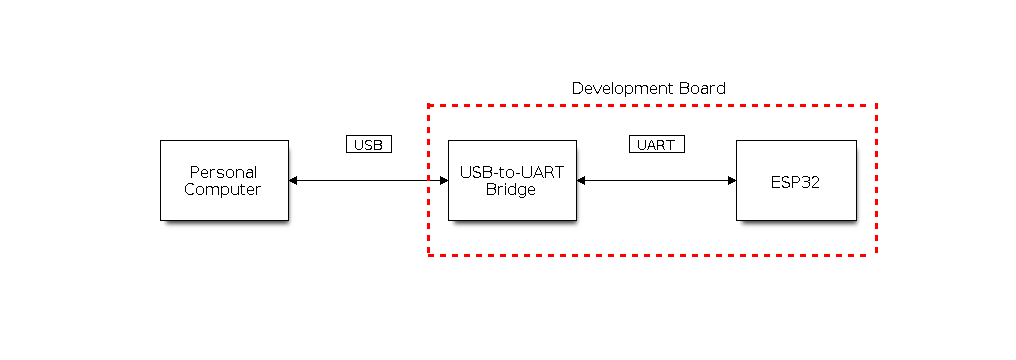
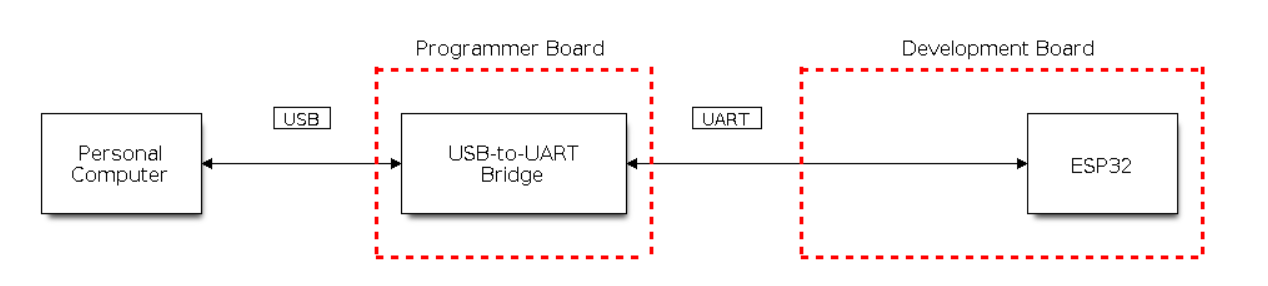
fix tutorial 1

diff --git a/tutorials/tutorial1/ReadMe.md b/tutorials/tutorial1/ReadMe.md
@@ -14,15 +14,21 @@ First things first: Download the Arduino IDE on the official website [Arduino.cc
 
 ## Connect the ESP32 and Install the Driver
 
-To establish a serial connection with your ESP32 device, use a USB-to-UART bridge. This allows your computer to communicate with the ESP32 for programming and debugging. 
+To establish a serial connection with your ESP32 device, use a USB-to-UART bridge. This allows your computer to communicate with the ESP32 for programming and debugging.
 
-![alt text](image-3.png)
+![alt text](image-10.png)
 
 In some cases, the USB-to-UART bridge is provided as an external module. This approach is common for compact development boards or final products where minimizing space and cost is important.
 
-![alt text](image-4.png)
+![alt text](image-3.png)
 
-That is what we will do!
+- The chip enables bidirectional communication (conversion):
+    - from the ESP, it converts UART to USB for the PC.
+    - from the PC, it converts USB to UART for the ESP.
+- So what is the purpose of the driver?
+    - it allows the operating system to recognize this chip as a virtual serial port (`COM`).
+
+That is what we will do! ;)
 
 1. First connect the ESP32 to the PC.
 2. Download and install the CP210x driver: [CP210x USB to UART Bridge VCP Drivers](https://www.silabs.com/developers/usb-to-uart-bridge-vcp-drivers).
